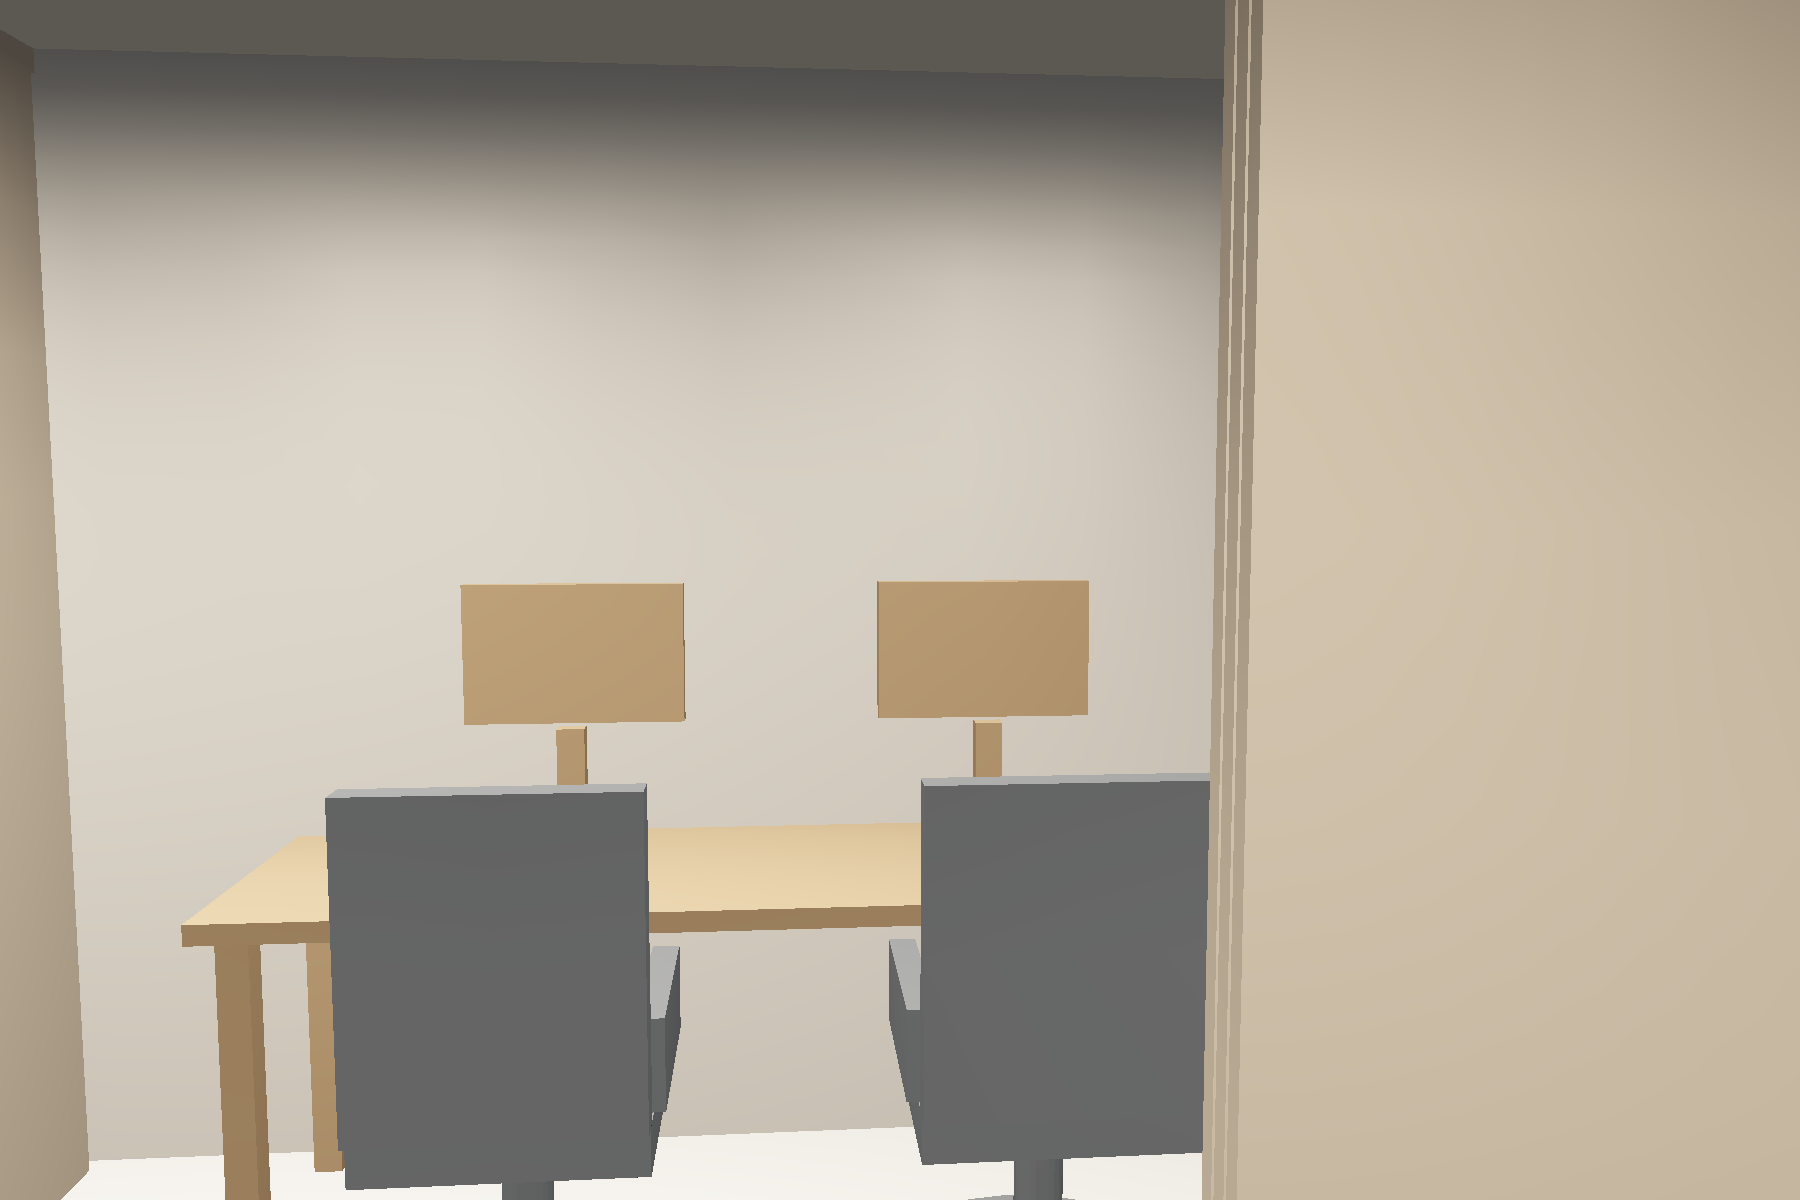
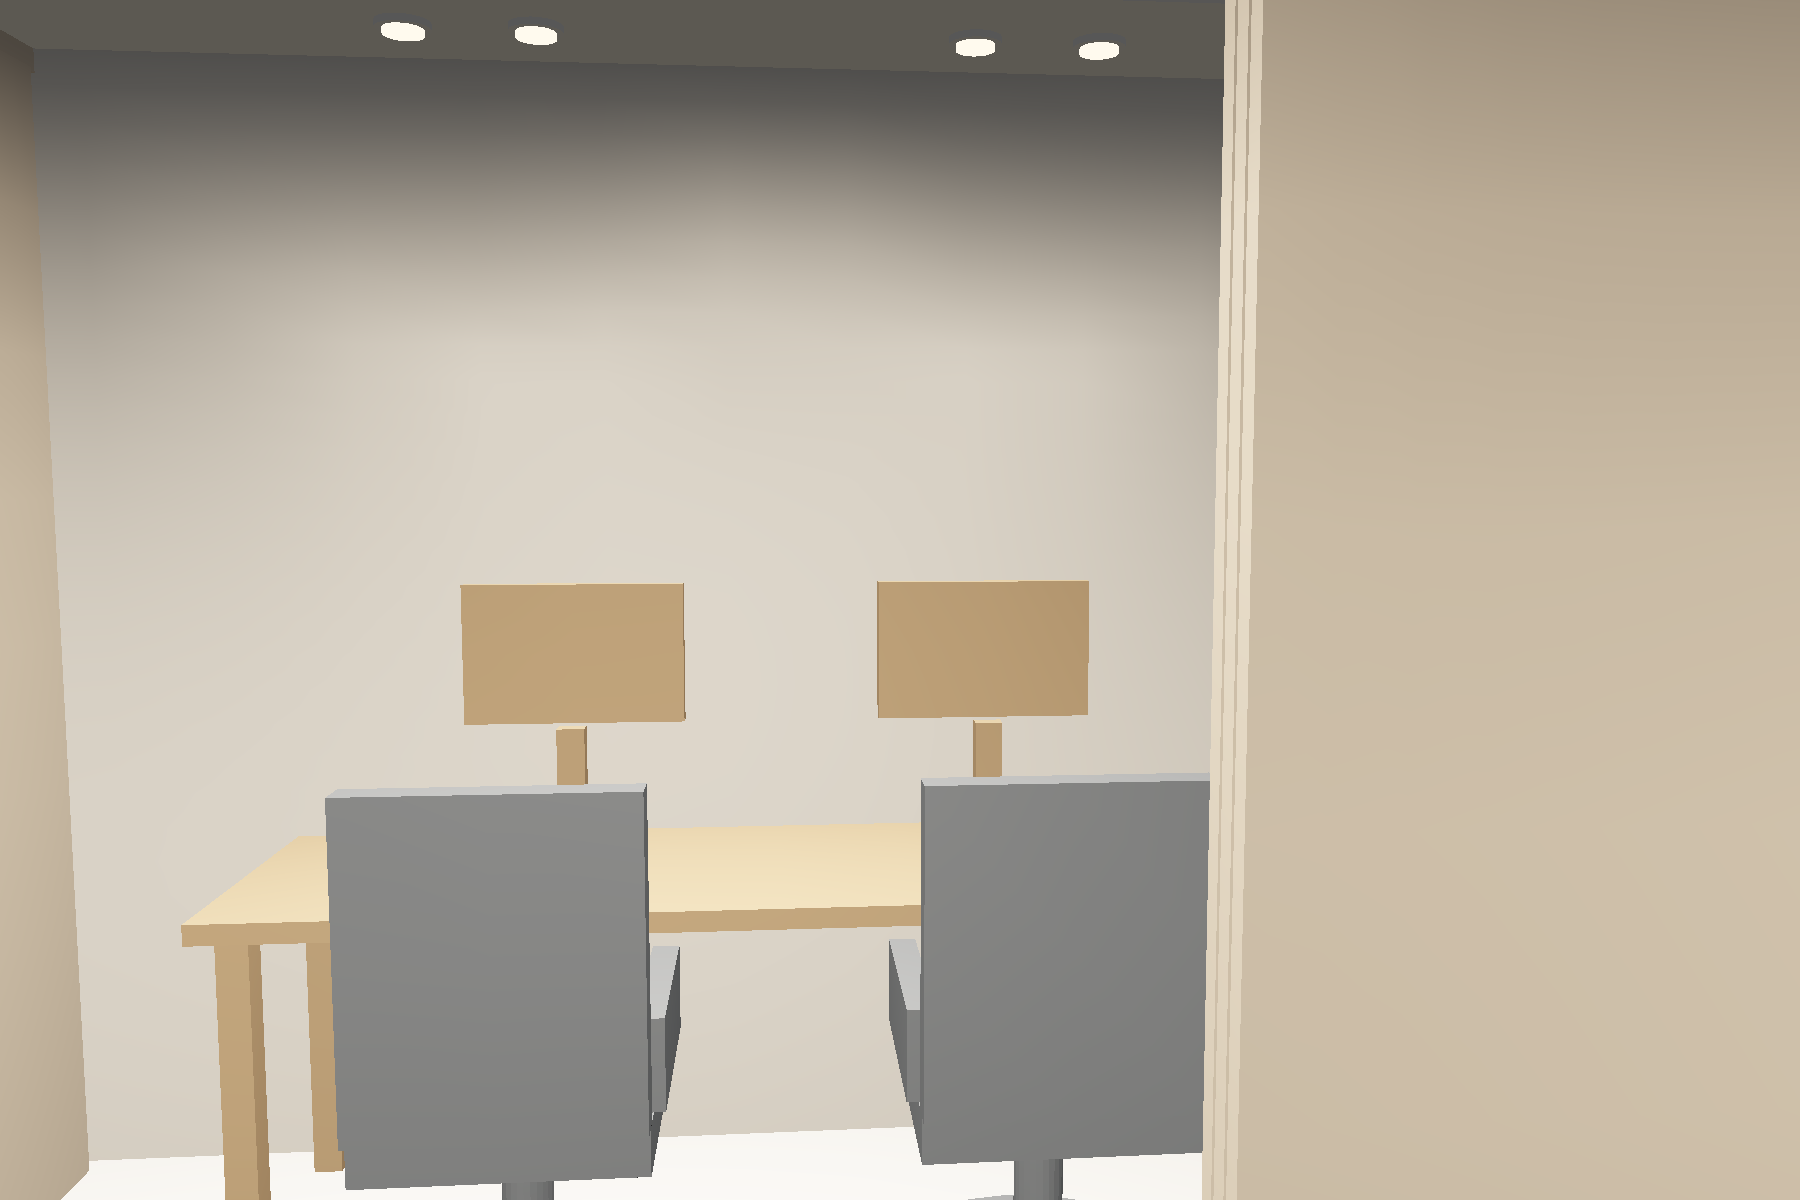
Add the coffered ceiling and light fittings
Approved geometry change, on explicit instruction after the lighting
pass flagged these as the two things the photos show but the model
lacked.

The living-room photos show a dropped perimeter band with a raised
centre, and downlights set in the band in pairs. The ceiling is now
built that way: band at CH 2450, raised centre at CH 2600 with a 600 mm
band, over the main bay (X2710-3895 / Y795-4745) and the west bay
(X695-1475 / Y795-4780). The wet rooms and hall get their own ceiling
at CH 2200, which also fixes the old slab sitting at 2450 over rooms
whose walls stop at 2200. Heights are Z-only settings - the photos
cannot give them - and are documented as such.

36 downlights are modelled as trim plus lens, positioned in the band in
pairs as photographed, along with the single heat detector. Crucially
the light sources now come from geometry_master.DOWNLIGHTS, which
render_interior imports, so fittings and sources cannot drift apart.

Nothing else moved: XY lock, 40.77 m2 envelope, furniture, the L-shaped
movable wall, the book shelf, no prohibited objects. render_validation
still passes every check. Objects 42 to 46.

render_interior no longer claims the scene is byte-identical to the
approving commit, since it is now that master plus this addition.

Claude-Session: https://claude.ai/code/session_01PLD8dd8RCVBaEMiq9C1GPw

diff --git a/soho1415/geometry_master.py b/soho1415/geometry_master.py
@@ -56,6 +56,8 @@ FL            = 0               # 床仕上面
 CH_MAIN       = 2450            # 居室天井高
 CH_WET        = 2200            # 水回り・玄関・廊下天井高
 SLAB_TOP      = 2650            # スラブ上端 (天井懐 200)
+CH_COVE       = 2600            # 折上げ天井 中央部 (竣工写真より)
+COVE_BAND     = 600.0           # 折上げ周囲の下がり天井バンド幅
 DOOR_H        = 2000            # 建具開口高
 WIN_HEAD      = 2100            # 掃き出し窓 上端
 BAL_FL        = -150            # バルコニー床レベル (室内 FL からの段差)
@@ -134,6 +136,60 @@ OPEN_WC_DOOR       = (5470.0, 6180.0)   # 便所ドア (X_WALL_WET_E)
 OPEN_PWD_DOOR      = (6900.0, 7620.0)   # 洗面室ドア (X_WALL_WET_E)
 OPEN_SHOWER_DOOR   = (6860.0, 7560.0)   # シャワードア (X_WALL_SHOWER_E)
 OPEN_WINDOW        = (1740.0, 4080.0)   # 掃き出し窓 (南外壁)     px x 778-960
+
+# =====================================================================
+#  1b. 折上げ天井 / 照明器具   (3D GEOMETRY APPROVED 後、明示指示で追加)
+# =====================================================================
+#  竣工写真 (居室 3 枚) より:
+#    ・居室天井は 下がり天井バンド + 折上げ中央 の構成
+#    ・ダウンライトは **ペア** でバンドに多数配置
+#    ・熱感知器が 1 個
+#  高さは写真から実測できないため Z のみの設定値 (バンド CH_MAIN 2450 /
+#  折上げ CH_COVE 2600)。XY は承認済みマスターから一切動かしていない。
+#
+#  COVE_RAISED : 折上げ (高い) 部分の矩形。周囲 COVE_BAND がバンドになる。
+COVE_RAISED = [
+    dict(x0=2710.0, x1=3895.0, y0=795.0, y1=4745.0),   # Living Dining 主ベイ
+    dict(x0=695.0,  x1=1475.0, y0=795.0, y1=4780.0),   # 西ベイ + ワークスペース
+]
+CEIL_BAY = [
+    dict(x0=2110.0, x1=4495.0, y0=195.0, y1=5370.0),   # 主ベイ
+    dict(x0=195.0,  x1=2110.0, y0=195.0, y1=5370.0),   # 西ベイ + MBR
+]
+CEIL_WET = dict(x0=195.0, x1=4495.0, y0=5370.0, y1=8495.0, z=2200.0)
+
+# ダウンライト : 写真どおり下がり天井バンドにペア配置
+DL_TRIM_R = 55.0                 # 器具枠 半径
+DL_WARM = (1.00, 0.91, 0.79)     # 電球色 3000K 相当
+
+
+def _dl_pair(x, y, axis="x", z=CH_MAIN, gap=260.0, inten=1.9):
+    o = gap / 2.0
+    pts = [(x - o, y), (x + o, y)] if axis == "x" else [(x, y - o), (x, y + o)]
+    return [dict(pos=(px, py, z), color=DL_WARM, intensity=inten) for px, py in pts]
+
+
+DOWNLIGHTS = (
+    # Living Dining 主ベイ : 西バンド (X2110-2710) / 東バンド (X3895-4495)
+    _dl_pair(2410, 1150, "y") + _dl_pair(2410, 2450, "y") + _dl_pair(2410, 3750, "y")
+    + _dl_pair(4195, 1150, "y") + _dl_pair(4195, 2450, "y") + _dl_pair(4195, 3750, "y")
+    # 主ベイ 南バンド / 北バンド
+    + _dl_pair(3150, 495) + _dl_pair(3150, 5050)
+    # 西ベイ + ワークスペース : 西バンド (X195-695) / 東バンド (X1475-2110)
+    + _dl_pair(445, 1300, "y") + _dl_pair(445, 3300, "y") + _dl_pair(445, 4450, "y")
+    + _dl_pair(1790, 1300, "y") + _dl_pair(1790, 3900, "y")
+    # 廊下・キッチン・水回り・玄関 (CH 2200)
+    + _dl_pair(3350, 5900, "x", CH_WET) + _dl_pair(4100, 6850, "x", CH_WET)
+    + _dl_pair(3350, 7850, "x", CH_WET)
+    + [dict(pos=(1900, 6900, CH_WET), color=DL_WARM, intensity=2.0),
+       dict(pos=(2100, 5750, CH_WET), color=DL_WARM, intensity=1.4),
+       dict(pos=(580, 7000, 2000.0), color=DL_WARM, intensity=1.6),
+       dict(pos=(3500, 8100, CH_WET), color=DL_WARM, intensity=2.0)]
+)
+
+# 熱感知器 (写真で 1 個確認)
+SMOKE_DETECTOR = dict(x=3150.0, y=4400.0, z=CH_MAIN, r=60.0)
+
 
 # =====================================================================
 #  2.  FURNITURE  XY  LOCK   ( 添付「FURNITURE CONTACT & CLEARANCE REVIEW」より )
@@ -531,8 +587,34 @@ def parts():
          _b(4170, X_OUT_E, 7655, Y_OUT_N, FL - 200, FL),
          _b(2950, 4170, Y_IN_N, Y_OUT_N, FL - 200, FL),
          _b(2950, 4170, 7655, Y_IN_N, FL - 200, GENKAN_FL)])   # 土間をくり抜く
-    add("CEILING", "床・天井",
-        [_b(X_IN_W, X_IN_E, Y_IN_S, Y_IN_N, CH_MAIN, SLAB_TOP)])
+    # 天井 : 居室は 下がり天井バンド + 折上げ中央、水回り・廊下は CH_WET
+    cb = []
+    for bay, rz in zip(CEIL_BAY, COVE_RAISED):
+        cb.append(_b(bay["x0"], bay["x1"], bay["y0"], rz["y0"], CH_MAIN, SLAB_TOP))
+        cb.append(_b(bay["x0"], bay["x1"], rz["y1"], bay["y1"], CH_MAIN, SLAB_TOP))
+        cb.append(_b(bay["x0"], rz["x0"], rz["y0"], rz["y1"], CH_MAIN, SLAB_TOP))
+        cb.append(_b(rz["x1"], bay["x1"], rz["y0"], rz["y1"], CH_MAIN, SLAB_TOP))
+    cb.append(_b(CEIL_WET["x0"], CEIL_WET["x1"], CEIL_WET["y0"], CEIL_WET["y1"],
+                 CEIL_WET["z"], CEIL_WET["z"] + 200))
+    add("CEILING", "床・天井", cb)
+    add("CEILING_COVE", "床・天井",
+        [_b(r["x0"], r["x1"], r["y0"], r["y1"], CH_COVE, CH_COVE + 200)
+         for r in COVE_RAISED])
+
+    # -----------------------------------------------------------------
+    # 照明器具  (ダウンライト枠 + 発光面 / 熱感知器)
+    # -----------------------------------------------------------------
+    trim, lens = [], []
+    for d in DOWNLIGHTS:
+        x, y, z = d["pos"]
+        trim.append(dict(r=DL_TRIM_R, z0=z - 14, z1=z, cx=x, cy=y))
+        lens.append(dict(r=DL_TRIM_R - 14, z0=z - 26, z1=z - 14, cx=x, cy=y))
+    add("DOWNLIGHT_TRIM", "照明器具", [], trim, color=(238, 238, 236))
+    add("DOWNLIGHT_LENS", "照明器具", [], lens, color=(255, 248, 232))
+    sd = SMOKE_DETECTOR
+    add("SMOKE_DETECTOR", "照明器具", [],
+        [dict(r=sd["r"], z0=sd["z"] - 30, z1=sd["z"], cx=sd["x"], cy=sd["y"])],
+        color=(242, 242, 240))
 
     # =================================================================
     #  FURNITURE   ( XY = FURNITURE_XY_LOCK )

diff --git a/soho1415/render_interior.py b/soho1415/render_interior.py
@@ -6,10 +6,14 @@
 組み立てる **同一の 3D シーン** を読み込み、カメラだけを移動して
 通常の透視投影レンダリングを行う。画像生成 AI は使用しない。
 
-そのため構造上、
+そのため構造上、カメラ間で
   壁が増える / Book Shelf が変わる / ベッドが出現する /
   家具が移動する / 部屋が広くなる
-ことは起こり得ない (ジオメトリは A/B 承認時と同一バイト列)。
+ことは起こり得ない (4 枚とも同一シーンの読み込み)。
+
+※ ジオメトリは 3D GEOMETRY APPROVED 時点 (42 オブジェクト) に対し、
+   その後の明示指示で 折上げ天井 + 照明器具 を追加した 46 オブジェクト。
+   XY LOCK・外形・家具・可動壁は一切変更していない。
 
 カメラ高   1550 mm        (指定 1500-1600)
 レンズ     フルサイズ換算 30-32 mm  (指定 28-35 / 超広角禁止)
@@ -36,44 +40,11 @@ TGT_H = 1300.0          # 注視点高 (わずかに見下ろし)
 ALPHA = {"WINDOW_GLASS": 0.20, "BALCONY_GLASS": 0.26}
 
 # ---------------------------------------------------------------------
-# 照明 (工程 "光" -- ジオメトリは変更しない)
-#
-# 竣工写真の天井を実測すると、LD は折上げ天井でダウンライトが
-# **ペア** で周囲のバンドに多数入っている。熱感知器も 1 個見える。
-# 照明「器具」の造形はジオメトリ変更にあたるため作っていない。
-# ここで与えているのは光源位置と配光だけである。
-# 電気図が入手できれば下の座標を差し替えればよい。
+# 照明
+# 光源位置は geometry_master.DOWNLIGHTS (= 照明器具の実体) と同一。
+# 器具の造形と折上げ天井は 3D GEOMETRY APPROVED 後に明示指示で追加済み。
 # ---------------------------------------------------------------------
-DL_Z = 2430.0
-DL_WARM = (1.00, 0.91, 0.79)     # 電球色 3000K 相当
-
-
-def _pair(x, y, axis="x", gap=260.0, inten=1.9):
-    o = gap / 2.0
-    if axis == "x":
-        pts = [(x - o, y), (x + o, y)]
-    else:
-        pts = [(x, y - o), (x, y + o)]
-    return [dict(pos=(px, py, DL_Z), color=DL_WARM, intensity=inten) for px, py in pts]
-
-
-DOWNLIGHTS = (
-    # Living Dining : 周囲バンドにペア配置
-    _pair(2700, 1000) + _pair(3900, 1000)
-    + _pair(2600, 2300) + _pair(3900, 2300)
-    + _pair(2700, 4300) + _pair(3900, 4300)
-    # 西ベイ (Book Shelf 側)
-    + _pair(800, 900, "y") + _pair(800, 1900, "y")
-    # ワークスペース (Master Bedroom 側)
-    + _pair(750, 3150, "y") + _pair(750, 4450, "y")
-    # 廊下・キッチン
-    + _pair(3350, 5900) + _pair(4100, 6850) + _pair(3350, 7850)
-    # 水回り・玄関
-    + [dict(pos=(1900, 6900, 2180.0), color=DL_WARM, intensity=2.0),
-       dict(pos=(2100, 5750, 2180.0), color=DL_WARM, intensity=1.4),
-       dict(pos=(580, 7000, 1980.0), color=DL_WARM, intensity=1.6),
-       dict(pos=(3500, 8100, 2180.0), color=DL_WARM, intensity=2.0)]
-)
+DOWNLIGHTS = GM.DOWNLIGHTS
 
 # 掃き出し窓を面光源として扱う (室内の主光源)
 WINDOW_PORTAL = dict(
@@ -81,7 +52,7 @@ WINDOW_PORTAL = dict(
             GM.WIN_HEAD / 2.0),
     normal=(0.0, -1.0, 0.0),
     size=(GM.OPEN_WINDOW[1] - GM.OPEN_WINDOW[0]) * GM.WIN_HEAD / 1.0e6,  # m2
-    color=(1.00, 1.00, 1.04),     # 昼光 (北向きの空 = ニュートラル)
+    color=(1.00, 1.00, 1.04),
     intensity=13.0)
 
 CAMERAS = [
@@ -118,11 +89,15 @@ def main():
     tris, rgb, alpha, meta = collect()
     n_src = len(tris)
     tris, rgb, alpha = softrender.tessellate(tris, rgb, alpha, max_edge=380.0)
-    print("scene: %d objects / %d triangles  (A/B 承認時と同一)" % (len(meta), n_src))
+    print("scene: %d objects / %d triangles  (承認済みマスター + 折上げ天井/照明器具)"
+          % (len(meta), n_src))
     print("照明用に %d 面へ細分 (形状は不変) / 光源 %d 灯 + 窓 %.1f m2"
           % (len(tris), len(DOWNLIGHTS), WINDOW_PORTAL["size"]))
     lit = softrender.light_vertices(tris, rgb, WINDOW_PORTAL, DOWNLIGHTS,
                                     exposure=1.0)
+    # ダウンライトの発光面は自己発光
+    emis = (np.abs(rgb.astype(int) - np.array([255, 248, 232])).sum(1) < 6)
+    lit[emis] = np.array([255, 250, 238], np.float32)
     print("方位: 平面 +Y = N%.0fE / バルコニー = S%.0fW\n"
           % (GM.PLAN_UP_BEARING_DEG, GM.PLAN_UP_BEARING_DEG))
 

diff --git a/soho1415/render_validation.py b/soho1415/render_validation.py
@@ -57,7 +57,7 @@ def collect(exclude=()):
 
 
 def view_a():
-    tris, rgb, oid, _ = collect(exclude=("CEILING", "BALCONY_SOFFIT"))
+    tris, rgb, oid, _ = collect(exclude=("CEILING", "CEILING_COVE", "BALCONY_SOFFIT"))
     img, _ = softrender.render(
         tris, rgb, oid,
         eye_dir=(0.40, -0.42, 0.815),     # 平面図と同じ向き(北が上)を保った俯瞰アクソメ
@@ -69,7 +69,7 @@ def view_a():
 
 
 def view_b(px_per_mm=0.31):
-    tris, rgb, oid, _ = collect(exclude=("CEILING", "BALCONY_SOFFIT"))
+    tris, rgb, oid, _ = collect(exclude=("CEILING", "CEILING_COVE", "BALCONY_SOFFIT"))
     cx = (GM.X_OUT_W + GM.X_OUT_E) / 2.0
     cy = (GM.BAL_Y_OUT + GM.Y_OUT_N) / 2.0
     w = int(round((GM.X_OUT_E - GM.X_OUT_W + 900) * px_per_mm))
@@ -86,7 +86,7 @@ def view_b(px_per_mm=0.31):
 
 def view_b_walls(px_per_mm):
     """重ね合わせ用: 床スラブを除いた立ち上がり部材のみの真上投影."""
-    tris, rgb, oid, _ = collect(exclude=("CEILING", "BALCONY_SOFFIT", "FLOOR_SLAB", "BALCONY_SLAB"))
+    tris, rgb, oid, _ = collect(exclude=("CEILING", "CEILING_COVE", "BALCONY_SOFFIT", "FLOOR_SLAB", "BALCONY_SLAB"))
     cx = (GM.X_OUT_W + GM.X_OUT_E) / 2.0
     cy = (GM.BAL_Y_OUT + GM.Y_OUT_N) / 2.0
     w = int(round((GM.X_OUT_E - GM.X_OUT_W + 900) * px_per_mm))

diff --git a/soho1415/README.md b/soho1415/README.md
@@ -457,17 +457,33 @@ LD天井は**折上げ天井**で、**ダウンライトがペアで周囲バン
 変えずに 2,496 → 約 93,000 面へ細分してから陰影を求めている
 （`softrender.tessellate`。頂点位置を分割するだけで形状は不変）。
 
-### モデル化していないもの（意図的）
+### 折上げ天井・照明器具（承認後に明示指示で追加）
+
+竣工写真どおりに造形もモデル化した。**承認後のジオメトリ変更**であり、
+ご指示（「やれ」）を受けて実施したもの。
+
+| 要素 | 内容 |
+|---|---|
+| 天井構成 | 下がり天井バンド **CH 2450** ＋ 折上げ中央 **CH 2600**（バンド幅600） |
+| 折上げ範囲 | 主ベイ X2710–3895 / Y795–4745、西ベイ X695–1475 / Y795–4780 |
+| 水回り・廊下天井 | CH 2200（従来はCH2450のスラブが被っていたのを修正） |
+| ダウンライト | 36灯。枠φ110＋発光面。写真どおりバンドにペア配置 |
+| 熱感知器 | 1個（写真で確認） |
+
+光源位置は `geometry_master.DOWNLIGHTS` を `render_interior.py` が
+そのまま参照するため、**器具と光源は必ず一致**する。
+
+**変更していないもの** — XY LOCK / 外形40.77㎡ / 家具配置 / L字可動壁 /
+Book Shelf / 禁止要素ゼロ。`render_validation.py` の全項目が引き続き通る。
+オブジェクト数 42 → 46。
+
+### モデル化していないもの
 
 | 項目 | 理由 |
 |---|---|
 | 影・相互反射（GI） | ソフトレンダラの範囲外。面光源＋環境光で近似 |
-| 照明**器具**の造形 | ジオメトリ変更にあたるため。与えているのは光源位置と配光のみ |
-| 折上げ天井 | 同上。モデルの天井はCH2450のフラット |
 | ダウンライトの正確なXY | 電気図が未入手。写真のペア配置パターンから推定した暫定値 |
-
-器具の造形・折上げ天井を反映する場合はジオメトリ変更になるため、
-改めてご承認をいただいてから着手する。
+| 天井高の実測値 | 写真から測定不能。CH2450/2600は一般的なマンションの設定値 |
 
 ---
 
